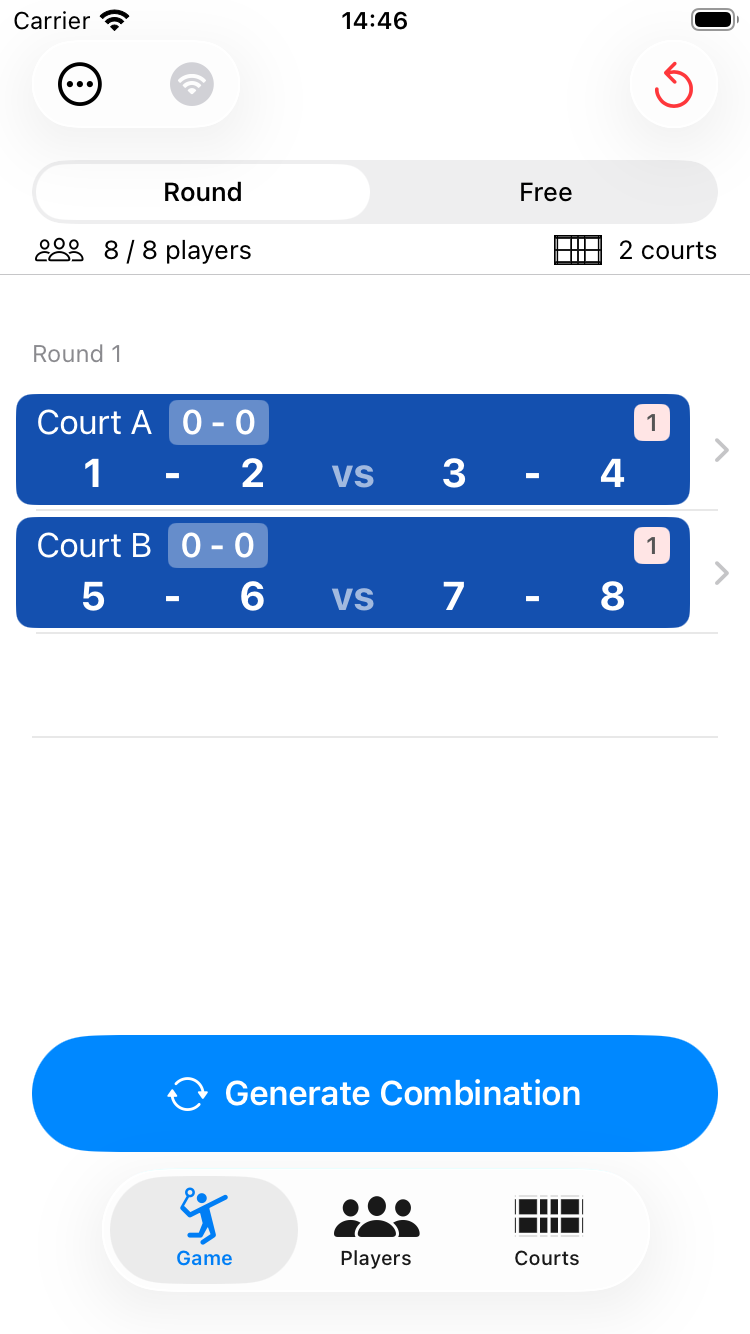
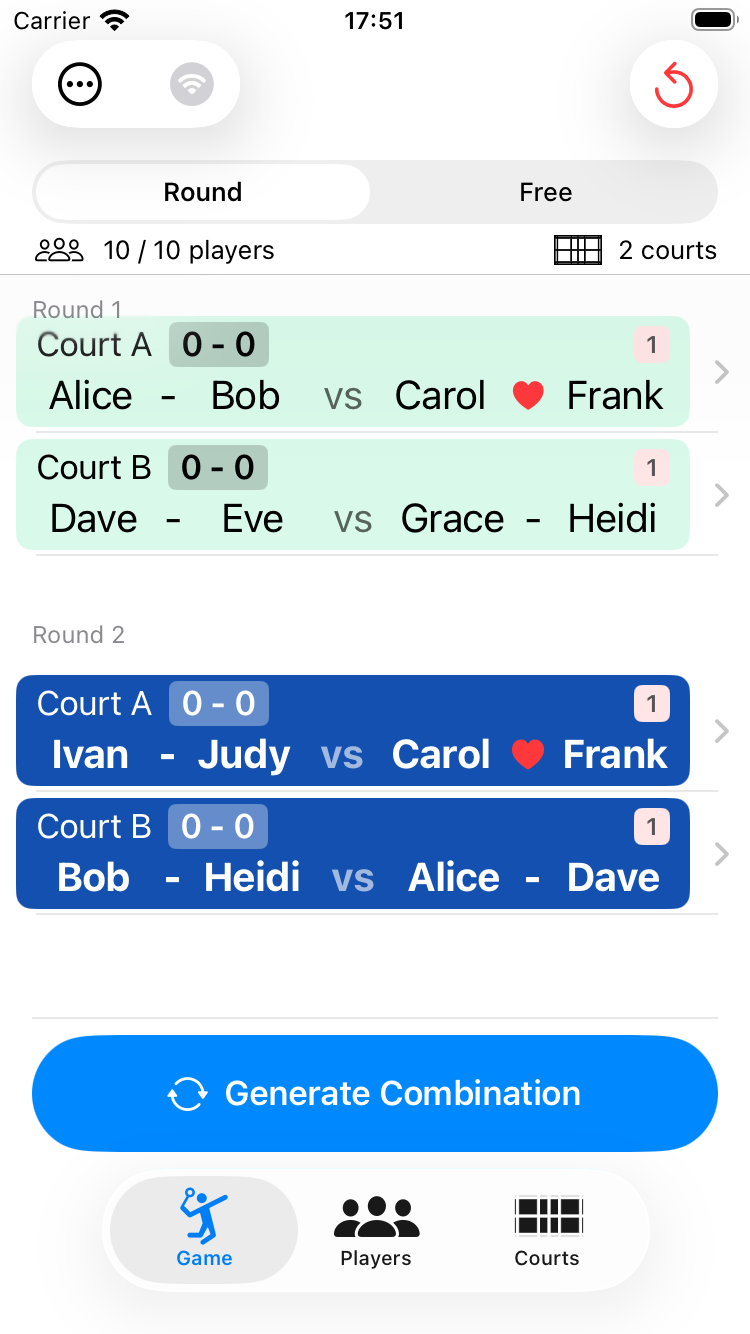
キャプチャ画像を名前入りに刷新し、逆引きガイドの表記を整理

diff --git a/getting-started.html b/getting-started.html
@@ -19,7 +19,7 @@
 <h1>使ってみよう！</h1>
 <p>PairGen は <strong>Game</strong>（ゲーム）・<strong>Players</strong>（プレイヤー）・<strong>Courts</strong>（コート）の3つのタブで構成されています。まずは基本の流れを試してみましょう。</p>
 
-<div class="ss"><img src="images/home-main.png" alt="タブ構成の概要"></div>
+<div class="ss"><img src="images/game-round-main.png" alt="タブ構成の概要"></div>
 
 <h2 id="player-count">1. プレイヤー数を設定する</h2>
 <p><strong>Players</strong> タブを開きます。画面下部の <code>＋</code> / <code>－</code> ボタンでプレイヤー数を増減できます。</p>
@@ -34,7 +34,7 @@
 
 <h2 id="generate">3. 組み合わせを生成する</h2>
 <p><strong>Game</strong> タブを開いて <code>Generate Combination</code>（組み合わせ生成）ボタンをタップします。プレイヤーが各コートに自動で割り当てられます。</p>
-<div class="ss"><img src="images/home-main.png" alt="Game タブ・生成結果"></div>
+<div class="ss"><img src="images/game-round-main.png" alt="Game タブ・生成結果"></div>
 <p>ボタンをタップするたびに次のラウンドの組み合わせが追加されます。重複が少なくなるよう自動的に調整されます。</p>
 
 <h2 id="reset-scores">4. 試合結果をリセットする</h2>

diff --git a/game-tab.html b/game-tab.html
@@ -51,7 +51,7 @@
 <h2 id="generate">1. ラウンドモード（全コート一括生成）</h2>
 <p>Game タブを開くと、最初は <strong>Round</strong>（ラウンド）モードになっています。<code>Generate Combination</code>（組み合わせ生成）をタップするたびに、その時点の参加プレイヤー全員を対象に、全コート分の組み合わせを一括で生成する標準モードです。</p>
 <p>プレイヤーは自動的に各コートへ割り振られ、同じ相手との組み合わせが続けて重ならないよう調整されます。1ラウンドが終わったらボタンをタップして次のラウンドを生成する、という流れで進行します。</p>
-<div class="ss"><img src="images/home-main.png" alt="ラウンドモードの組み合わせ一覧"></div>
+<div class="ss"><img src="images/game-round-main.png" alt="ラウンドモードの組み合わせ一覧"></div>
 <div class="tip">💡 Round（ラウンド）と Free（フリー）は、試合の途中でも何度でも切り替えられます。切り替えてもそれまでの試合記録は保持されます。</div>
 
 <h3 id="undo">直前の組み合わせを取り消す</h3>

diff --git a/reverse-lookup.html b/reverse-lookup.html
@@ -19,7 +19,8 @@
 <h2>メンバー・出場管理</h2>
 <ul>
   <li><a href="players-tab.html#add-remove">試合の途中でも人数を増やしたり減らしたりしたい（飛び入り参加・途中退出）</a></li>
-  <li><a href="players-tab.html#fixed-pair">特定の2人を毎回パートナーにしたい</a></li>
+  <li><a href="players-tab.html#rename">プレイヤーの名前を変えたい</a></li>
+  <li><a href="players-tab.html#fixed-pair">特定の2人を毎回ペアにしたい</a></li>
   <li><a href="players-tab.html#rest-toggle">特定の人を一時的に休ませたい（トイレ休憩など）</a></li>
   <li><a href="players-tab.html#default-absent">常連が休みがちで、毎回チェックを外すのが面倒</a></li>
   <li><a href="players-tab.html#pin">早く帰ってしまうメンバーを優先的に試合に入れたい</a></li>
